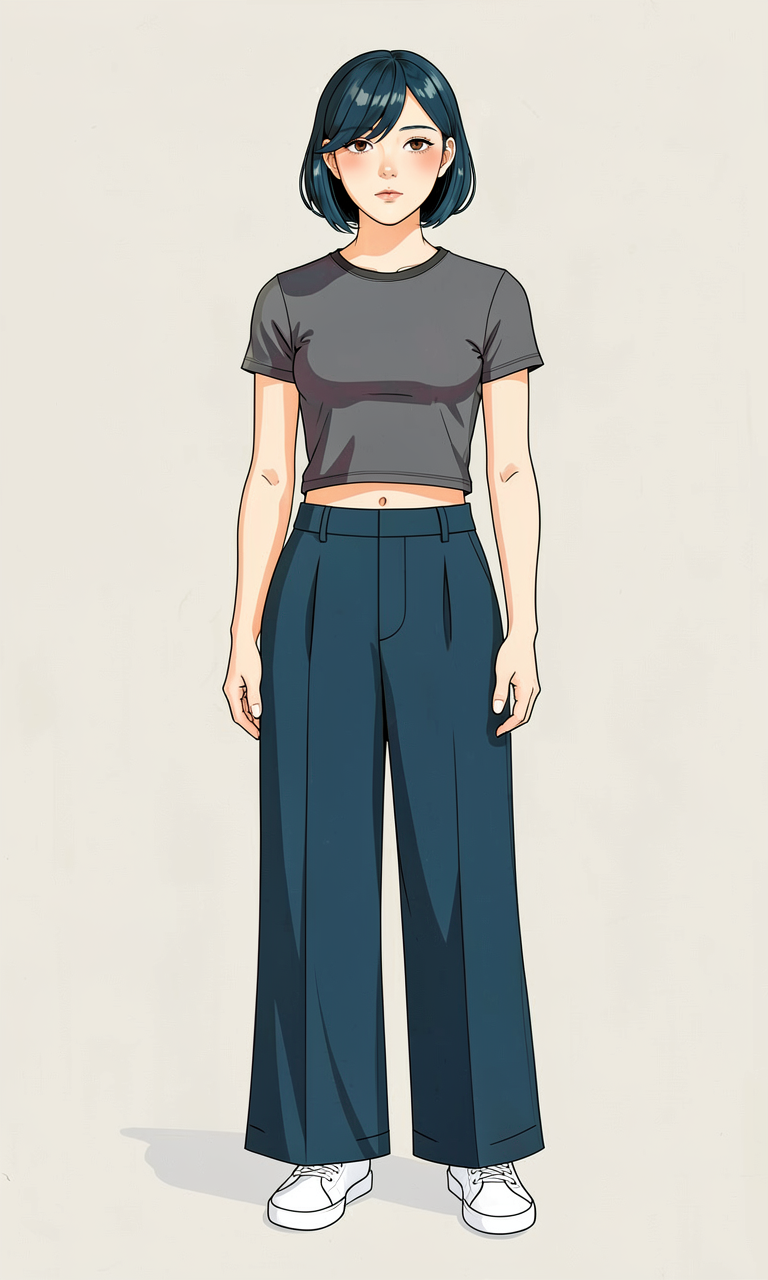
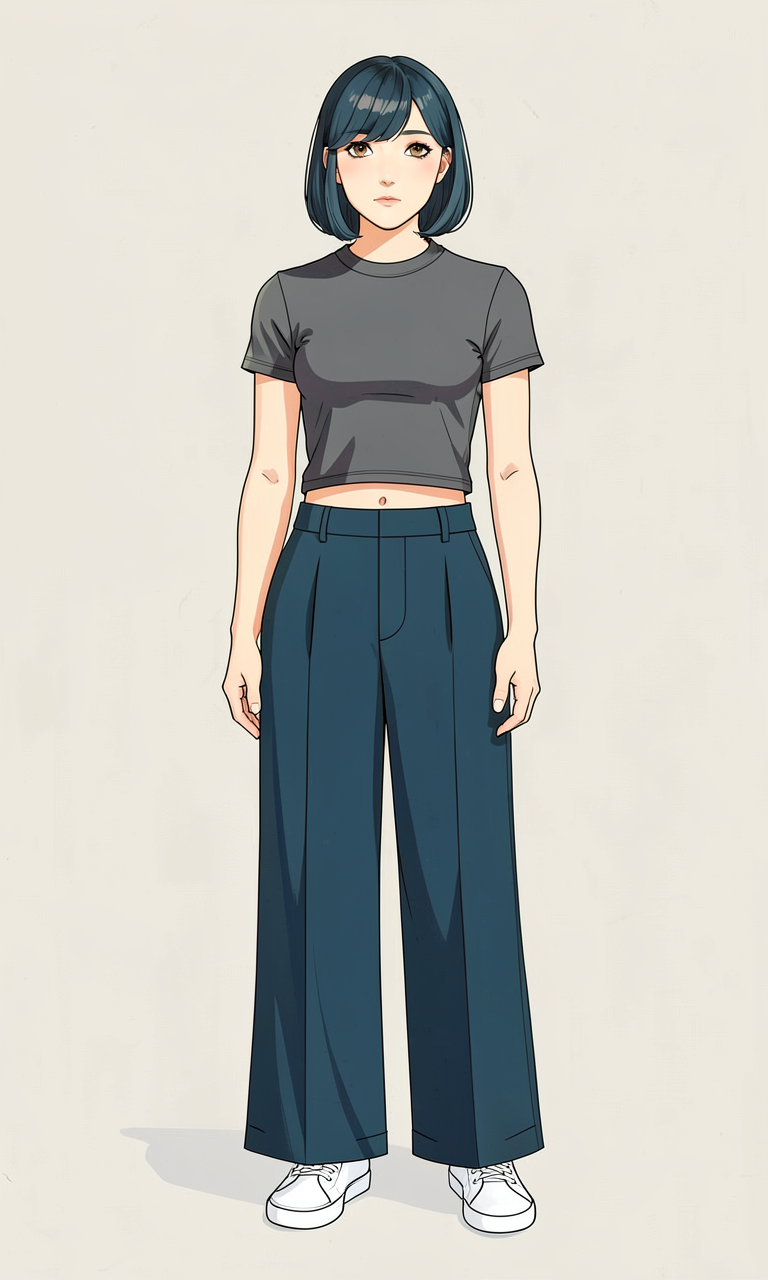
feat: approve regenerated Mira front fullbody reference

diff --git a/management/release-notes/sections/part-07/P7-5.2.md b/management/release-notes/sections/part-07/P7-5.2.md
@@ -5,6 +5,7 @@
 
 ### v2026.08.05
 
+- 승인된 정면 얼굴·크롭탑-허리선·바지·신발 기준을 입력으로 정면 전신을 재생성하고 사람 승인해 `p7-5-2-fullbody-front-reference.png`와 실행·승인 기록을 교체했다. 이 승인은 정면 전신의 identity·7.5등신 비례·기본 복장까지만 다룬다.
 - 정면 얼굴 생성기의 출력 해상도를 방향 얼굴과 같은 정사각 `768×768`으로 통일했다. 기존 승인 정면 얼굴 PNG는 새 후보를 생성·검수하기 전까지 교체하지 않는다.
 - 정면 얼굴의 높은 직선형 콧대·분명한 코끝 계약을 공통 prompt로 적용해 V3 좌우 전면 쿼터·좌우 측면·후면 얼굴을 로컬 GPU에서 재생성하고 사람 승인했다. 다섯 방향 PNG는 정면 앵커와 함께 얼굴 회전 identity 기준으로 등록했으며, pose·camera·전신 기준까지의 승인은 아니다.
 - 정면 얼굴 기준을 턱 아래에서 끝나는 두상 전용 출력으로 교체해 사람 승인했다. 목선 소품 입력과 목·어깨 구도를 제거하고, 넓고 낮은 광대·볼살·고양이 눈매·두 색 홍채·딥틸블루 단발 계약을 prompt-only로 유지했다.
